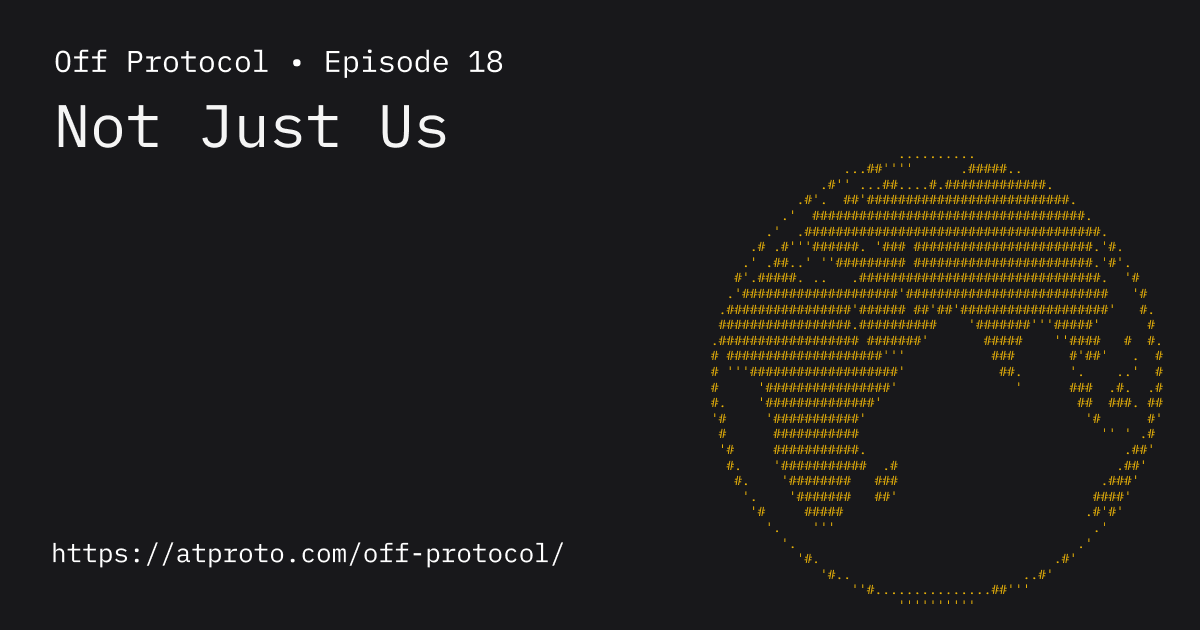
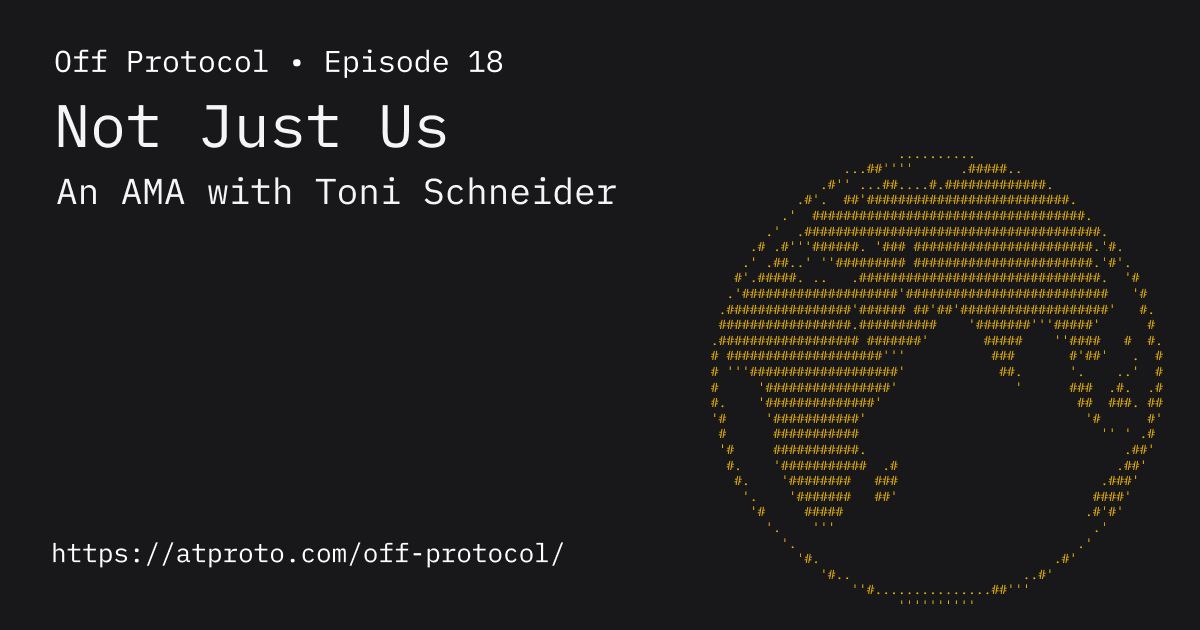
Updated hed

Changed region(s): [[0.0308, 0.2714, 0.5242, 0.3317]]

diff --git a/src/lib/episodes.ts b/src/lib/episodes.ts
@@ -103,7 +103,7 @@ export const episodes: Episode[] = [
   {
     slug: '2026-08-26-toni-schneider-ama',
     episodeNumber: 18,
-    title: 'Not Just Us',
+    title: 'Not Just Us: An AMA with Toni Schneider',
     description: 'Bluesky CEO Toni Schneider sits down to answer your questions about composable moderation, how Bluesky (and the Atmosphere) plans to make money, what makes atproto spaces a true differentiator, and where AI fits on the protocol.',
     date: 'August 26, 2026',
     pubDate: '2026-08-26T15:30:00.000Z',
@@ -118,7 +118,7 @@ export const episodes: Episode[] = [
   {
     slug: '2026-08-24-jim-calabro-ama',
     episodeNumber: 17,
-    title: 'It’s Important to Own Your Own Destiny',
+    title: 'Own Your Own Destiny: An AMA with Jim Calabro',
     description: 'Jim Calabro, Head of Platform at Bluesky, joins to answer your questions about running what is, for now, the biggest node on the atproto network',
     date: 'August 24, 2026',
     pubDate: '2026-08-24T21:32:59.896Z',
